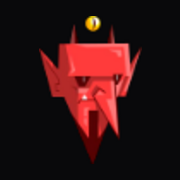
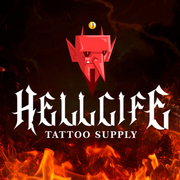
chore: update application assets and splash screen
- Updated app icons and splash screen logo assets.
- Refined Splash Screen UI with improved styling and logo rendering.

diff --git a/src/components/SplashScreen.tsx b/src/components/SplashScreen.tsx
@@ -1,9 +1,9 @@
 import React from 'react';
-import { LOGO_EMPRESA_SRC } from './BrandLogo';
-
 interface SplashScreenProps {
   fadingOut?: boolean;
 }
+
+const SPLASH_LOGO_SRC = '/assets/aistudio/hellcife_icone_app_1024_6c9db6fe.png';
 
 export const SplashScreen: React.FC<SplashScreenProps> = ({ fadingOut = false }) => {
   return (
@@ -14,14 +14,14 @@ export const SplashScreen: React.FC<SplashScreenProps> = ({ fadingOut = false })
       aria-label="HELLCIFE RH+"
     >
       <div className="flex flex-col items-center justify-center">
-        <div className="rounded-2xl overflow-hidden bg-[#09090B] flex items-center justify-center">
+        <div className="rounded-2xl overflow-hidden bg-[#09090B] shadow-[0_0_48px_rgba(220,38,38,0.18)] ring-1 ring-white/5 flex items-center justify-center">
           <img
-            src={LOGO_EMPRESA_SRC}
+            src={SPLASH_LOGO_SRC}
             alt="Hellcife Tattoo Supply"
-            className="w-56 max-w-[70vw] max-h-56 object-contain rounded-2xl mix-blend-lighten"
+            className="w-56 sm:w-64 max-w-[72vw] aspect-square object-cover rounded-2xl block"
           />
         </div>
-        <div className="mt-4 text-2xl font-extrabold uppercase tracking-widest leading-none text-center text-white">
+        <div className="mt-5 text-2xl font-extrabold uppercase tracking-widest leading-none text-center text-[#FFFFFF]">
           HELLCIFE RH+
         </div>
       </div>
